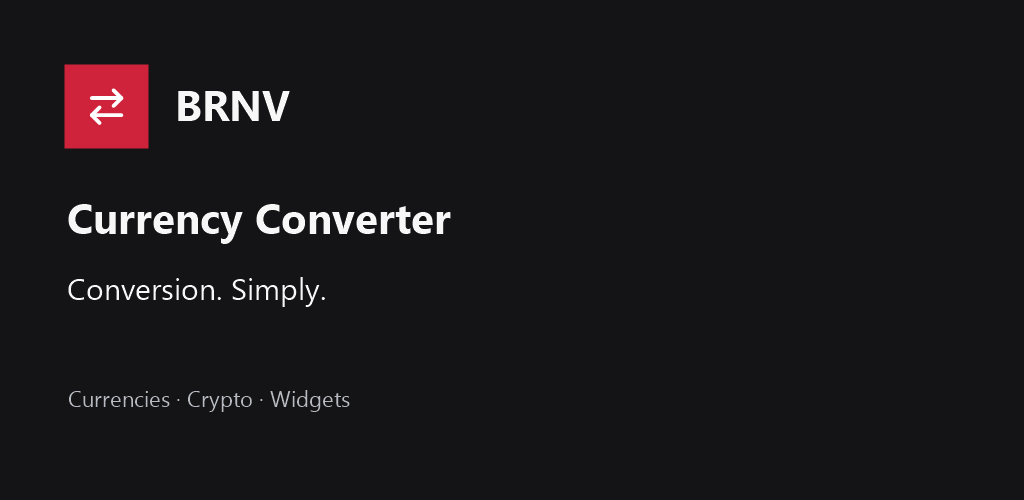
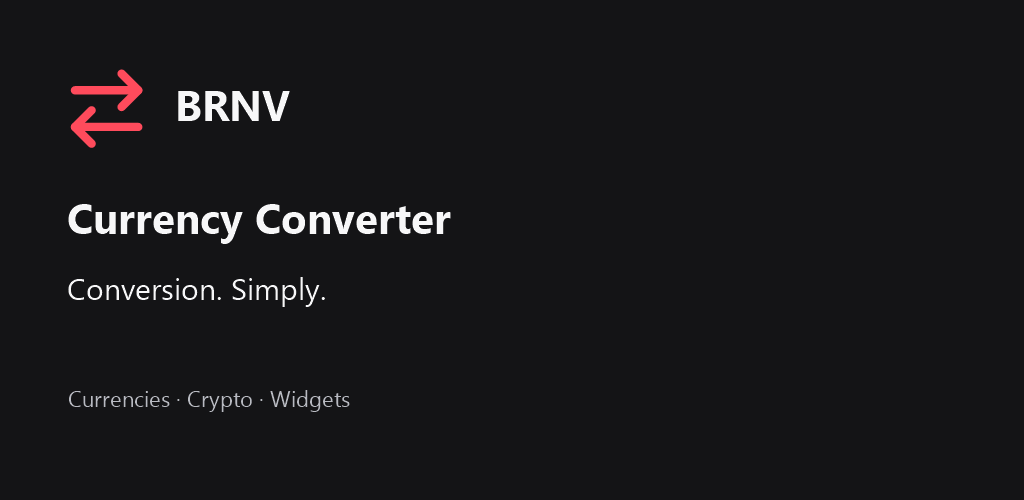
Localize Play listings and refine promotional branding

Changed region(s): [[0.0625, 0.12, 0.1562, 0.3]]

diff --git a/store/README.md b/store/README.md
@@ -5,9 +5,19 @@
 ## Готові матеріали
 - `listing-uk.md` — назва, короткий і повний опис, примітки випуску українською.
 - `listing-en.md` — англійська версія.
+- `listing-de.md`, `listing-pl.md`, `listing-it.md`, `listing-fr.md`, `listing-es.md`, `listing-pt.md`, `listing-zh-Hans.md` — описи рештою мов застосунку (португальський текст — pt-BR; китайський — спрощене письмо).
 - `assets/icon-512.png` — іконка на основі чинного векторного знака застосунку.
 - `assets/feature-uk.png`, `assets/feature-en.png` — промографіка 1024×500.
 - `privacy-draft-uk.md` — чернетка для погодження, не остаточна опублікована політика.
+
+Описи підготовлені всіма 9 мовами застосунку. Промографіка наразі українською й англійською; це окремі від описів матеріали.
+
+Іконка для завантаження квадратна 512×512: Google Play сам накладає округлену маску. Не обрізати файл у коло. Це окремий ресурс від адаптивної іконки на головному екрані Android.
+Специфікація: https://developer.android.com/distribute/google-play/resources/icon-design-specifications
+
+## Запит оцінки вже реалізований
+Усі умови мають виконатися разом: щонайменше 3 дні після першого запуску, 3 сесії, 10 подій конвертації та 3 хвилини активного використання. Повторний запит — не раніше ніж через 90 днів. Сесії розділяються щонайменше 30 хвилинами; швидкі зміни суми не рахуються як багато окремих конвертацій.
+Автоматичний запит виконується лише для встановлення через Google Play. Для APK, установленого вручну, його вимкнено. Google визначає, чи показувати стандартне вікно оцінки; факт виклику API не гарантує показу. Кнопка оцінювання відкриває сторінку Play Store.
 
 ## Налаштування сторінки
 Назва: BRNV Currency Converter. Тип: застосунок. Пропонована категорія: Фінанси. Ціна: безкоштовно. Сайт: https://brnvconverter.com. Контакт із документації проєкту: mbrnvwork@gmail.com — власник має підтвердити доступ.

diff --git a/store/listing-fr.md b/store/listing-fr.md
@@ -1,0 +1,24 @@
+# Google Play — fr
+
+## Назва
+BRNV Currency Converter
+
+## Короткий опис
+Devises et cryptomonnaies, favoris et widgets. Simple et sans publicité.
+
+## Повний опис
+BRNV Currency Converter est un convertisseur de devises minimaliste pour les voyages, le travail et les calculs du quotidien.
+
+Ajoutez plusieurs devises et saisissez un montant dans n’importe quelle ligne. Les autres valeurs sont recalculées automatiquement. Recherchez les devises par nom ou code, réorganisez-les, remplacez-les, supprimez-les et enregistrez vos favoris.
+
+Ajoutez un widget avec une ou deux paires de devises sur votre écran d’accueil. Choisissez les montants, affichez ou masquez les drapeaux et redimensionnez le widget. Chaque widget conserve ses propres réglages.
+
+Convertissez des devises traditionnelles et les cryptomonnaies prises en charge. Après un téléchargement réussi, les taux restent sur votre appareil et sont utilisables sans connexion.
+
+Thèmes clair et sombre, langue de l’appareil ou sélection manuelle. Réglages et favoris sont enregistrés localement. Sans inscription, publicité ni abonnement. Toutes les fonctions sont gratuites.
+
+Les taux sont indicatifs et peuvent différer de ceux des banques et bureaux de change. L’application n’effectue ni change d’argent, ni transfert, ni opération de trading. Une connexion Internet est nécessaire pour télécharger de nouveaux taux.
+
+## Примітки до першого випуску
+Première version Android : plusieurs devises, cryptomonnaies, favoris, taux enregistrés et widgets.
+

diff --git a/store/listing-es.md b/store/listing-es.md
@@ -1,0 +1,24 @@
+# Google Play — es
+
+## Назва
+BRNV Currency Converter
+
+## Короткий опис
+Divisas y criptomonedas, favoritos y widgets. Simple y sin anuncios.
+
+## Повний опис
+BRNV Currency Converter es un conversor de divisas minimalista para viajes, trabajo y cálculos cotidianos.
+
+Añade varias divisas e introduce un importe en cualquier fila. Los demás valores se recalculan automáticamente. Busca divisas por nombre o código, cambia su orden, sustitúyelas, elimínalas y guarda tus favoritas.
+
+Añade a la pantalla de inicio un widget con uno o dos pares de divisas. Elige los importes, muestra u oculta las banderas y cambia el tamaño del widget. Cada widget conserva su propia configuración.
+
+Convierte divisas tradicionales y criptomonedas compatibles. Tras una descarga correcta, los tipos de cambio se guardan en el dispositivo y puedes utilizarlos sin conexión.
+
+Temas claro y oscuro, idioma del dispositivo o selección manual. La configuración y los favoritos se guardan localmente. Sin registro, anuncios ni suscripciones. Todas las funciones son gratuitas.
+
+Los tipos de cambio son orientativos y pueden diferir de los ofrecidos por bancos y casas de cambio. La aplicación no realiza cambios de dinero, transferencias ni operaciones de compraventa. Se necesita Internet para descargar nuevos tipos de cambio.
+
+## Примітки до першого випуску
+Primera versión para Android: varias divisas, criptomonedas, favoritos, tipos de cambio guardados y widgets.
+

diff --git a/store/listing-de.md b/store/listing-de.md
@@ -1,0 +1,24 @@
+# Google Play — de
+
+## Назва
+BRNV Currency Converter
+
+## Короткий опис
+Währungen und Krypto umrechnen – mit Favoriten und Widgets.
+
+## Повний опис
+BRNV Currency Converter ist ein minimalistischer Währungsrechner für Reisen, Arbeit und Alltag.
+
+Fügen Sie mehrere Währungen hinzu und geben Sie in einer beliebigen Zeile einen Betrag ein. Alle anderen Werte werden automatisch neu berechnet. Währungen lassen sich suchen, sortieren, austauschen und als Favoriten speichern.
+
+Zeigen Sie ein oder zwei Währungspaare in einem Widget auf dem Startbildschirm an. Wählen Sie Beträge, blenden Sie Flaggen ein oder aus und ändern Sie die Widget-Größe. Jedes Widget speichert seine eigenen Einstellungen.
+
+Rechnen Sie traditionelle Währungen und unterstützte Kryptowährungen um. Nach einem erfolgreichen Download bleiben die Kurse auf dem Gerät verfügbar – auch ohne Internetverbindung.
+
+Helles und dunkles Design, automatische Sprachauswahl und manuelle Sprachwahl. Einstellungen und Favoriten werden lokal gespeichert. Keine Registrierung, Werbung oder Abonnements. Alle Funktionen sind kostenlos.
+
+Die Kurse dienen zur Orientierung und können von Bank- und Wechselkursen abweichen. Die App führt keinen Geldwechsel, keine Überweisungen und keinen Handel aus. Neue Kurse benötigen eine Internetverbindung.
+
+## Примітки до першого випуску
+Erste Android-Version mit mehreren Währungen, Krypto, Favoriten, gespeicherten Kursen und Widgets.
+

diff --git a/store/listing-pt.md b/store/listing-pt.md
@@ -1,0 +1,24 @@
+# Google Play — pt
+
+## Назва
+BRNV Currency Converter
+
+## Короткий опис
+Moedas e criptomoedas, favoritos e widgets. Simples e sem anúncios.
+
+## Повний опис
+BRNV Currency Converter é um conversor de moedas minimalista para viagens, trabalho e cálculos do dia a dia.
+
+Adicione várias moedas e insira um valor em qualquer linha. Os outros valores são recalculados automaticamente. Pesquise moedas por nome ou código, altere a ordem, substitua, remova e salve suas favoritas.
+
+Adicione à tela inicial um widget com um ou dois pares de moedas. Escolha os valores, mostre ou oculte as bandeiras e altere o tamanho do widget. Cada widget mantém suas próprias configurações.
+
+Converta moedas tradicionais e criptomoedas compatíveis. Após um download bem-sucedido, as taxas ficam salvas no dispositivo e podem ser usadas sem conexão.
+
+Temas claro e escuro, idioma do dispositivo ou seleção manual. Configurações e favoritos são salvos localmente. Sem cadastro, anúncios ou assinaturas. Todas as funções são gratuitas.
+
+As taxas são indicativas e podem ser diferentes das oferecidas por bancos e casas de câmbio. O aplicativo não realiza câmbio de dinheiro, transferências ou operações de negociação. É preciso ter conexão com a internet para baixar novas taxas.
+
+## Примітки до першого випуску
+Primeira versão para Android: várias moedas, criptomoedas, favoritos, taxas salvas e widgets.
+

diff --git a/store/listing-it.md b/store/listing-it.md
@@ -1,0 +1,24 @@
+# Google Play — it
+
+## Назва
+BRNV Currency Converter
+
+## Короткий опис
+Valute e criptovalute, preferiti e widget. Semplice e senza pubblicità.
+
+## Повний опис
+BRNV Currency Converter è un convertitore di valuta minimalista per viaggi, lavoro e calcoli quotidiani.
+
+Aggiungi più valute e inserisci un importo in qualsiasi riga. Gli altri valori vengono ricalcolati automaticamente. Cerca le valute per nome o codice, riordinale, sostituiscile, rimuovile e salva i preferiti.
+
+Aggiungi alla schermata Home un widget con una o due coppie di valute. Scegli gli importi, mostra o nascondi le bandiere e ridimensiona il widget. Ogni widget mantiene le proprie impostazioni.
+
+Converti valute tradizionali e criptovalute supportate. Dopo un download riuscito, i tassi restano sul dispositivo e sono disponibili anche senza connessione.
+
+Tema chiaro e scuro, lingua del dispositivo o selezione manuale. Impostazioni e preferiti vengono salvati localmente. Nessuna registrazione, pubblicità o abbonamento. Tutte le funzioni sono gratuite.
+
+I tassi sono indicativi e possono differire da quelli di banche e servizi di cambio. L’app non effettua cambi di denaro, trasferimenti o operazioni di trading. Per scaricare nuovi tassi serve una connessione Internet.
+
+## Примітки до першого випуску
+Prima versione Android: più valute, criptovalute, preferiti, tassi salvati e widget.
+

diff --git a/store/listing-pl.md b/store/listing-pl.md
@@ -1,0 +1,24 @@
+# Google Play — pl
+
+## Назва
+BRNV Currency Converter
+
+## Короткий опис
+Waluty i kryptowaluty, ulubione oraz widżety. Prosto i bez reklam.
+
+## Повний опис
+BRNV Currency Converter to minimalistyczny przelicznik walut do podróży, pracy i codziennych obliczeń.
+
+Dodaj kilka walut i wpisz kwotę w dowolnym wierszu. Pozostałe wartości przeliczą się automatycznie. Wyszukuj waluty po nazwie lub kodzie, zmieniaj ich kolejność, usuwaj je i zapisuj ulubione.
+
+Umieść na ekranie głównym widżet z jedną lub dwiema parami walut. Wybieraj kwoty, włączaj flagi i zmieniaj rozmiar widżetu. Każdy widżet ma własne ustawienia.
+
+Przeliczaj tradycyjne waluty i obsługiwane kryptowaluty. Po udanym pobraniu kursy pozostają na urządzeniu, aby można było korzystać z nich bez internetu.
+
+Jasny i ciemny motyw, język urządzenia lub ręczny wybór języka. Ustawienia i ulubione są zapisywane lokalnie. Bez rejestracji, reklam i subskrypcji. Wszystkie funkcje są bezpłatne.
+
+Kursy mają charakter orientacyjny i mogą różnić się od kursów banków i kantorów. Aplikacja nie realizuje wymiany pieniędzy, przelewów ani transakcji handlowych. Pobranie nowych kursów wymaga internetu.
+
+## Примітки до першого випуску
+Pierwsza wersja na Androida: wiele walut, kryptowaluty, ulubione, zapisane kursy i widżety.
+

diff --git a/store/listing-zh-Hans.md b/store/listing-zh-Hans.md
@@ -1,0 +1,24 @@
+# Google Play — zh-Hans
+
+## Назва
+BRNV Currency Converter
+
+## Короткий опис
+简洁的货币与加密货币换算工具，支持多币种、收藏和桌面小组件，无广告。
+
+## Повний опис
+BRNV Currency Converter 是一款简洁的货币换算工具，适合旅行、工作和日常计算。
+
+添加多种货币，在任意一行输入金额，其他金额会自动重新计算。支持按名称或代码搜索货币、调整顺序、更换、删除和收藏。
+
+在主屏幕添加显示一组或两组货币对的小组件。选择金额、显示或隐藏旗帜，并调整小组件大小。每个小组件单独保存设置。
+
+支持传统货币及所提供的加密货币。成功下载后，汇率会保存在设备上，暂时没有网络时也能使用已保存的汇率进行计算。
+
+支持浅色和深色主题，可跟随设备语言或手动选择语言。设置和收藏保存在本机。无需注册，无广告，无订阅，所有功能免费。
+
+汇率仅供参考，可能与银行或兑换机构提供的汇率不同。本应用不提供实际货币兑换、转账或交易服务。下载新汇率需要联网。
+
+## Примітки до першого випуску
+首个 Android 版本：支持多币种换算、加密货币、收藏、保存汇率和桌面小组件。
+
